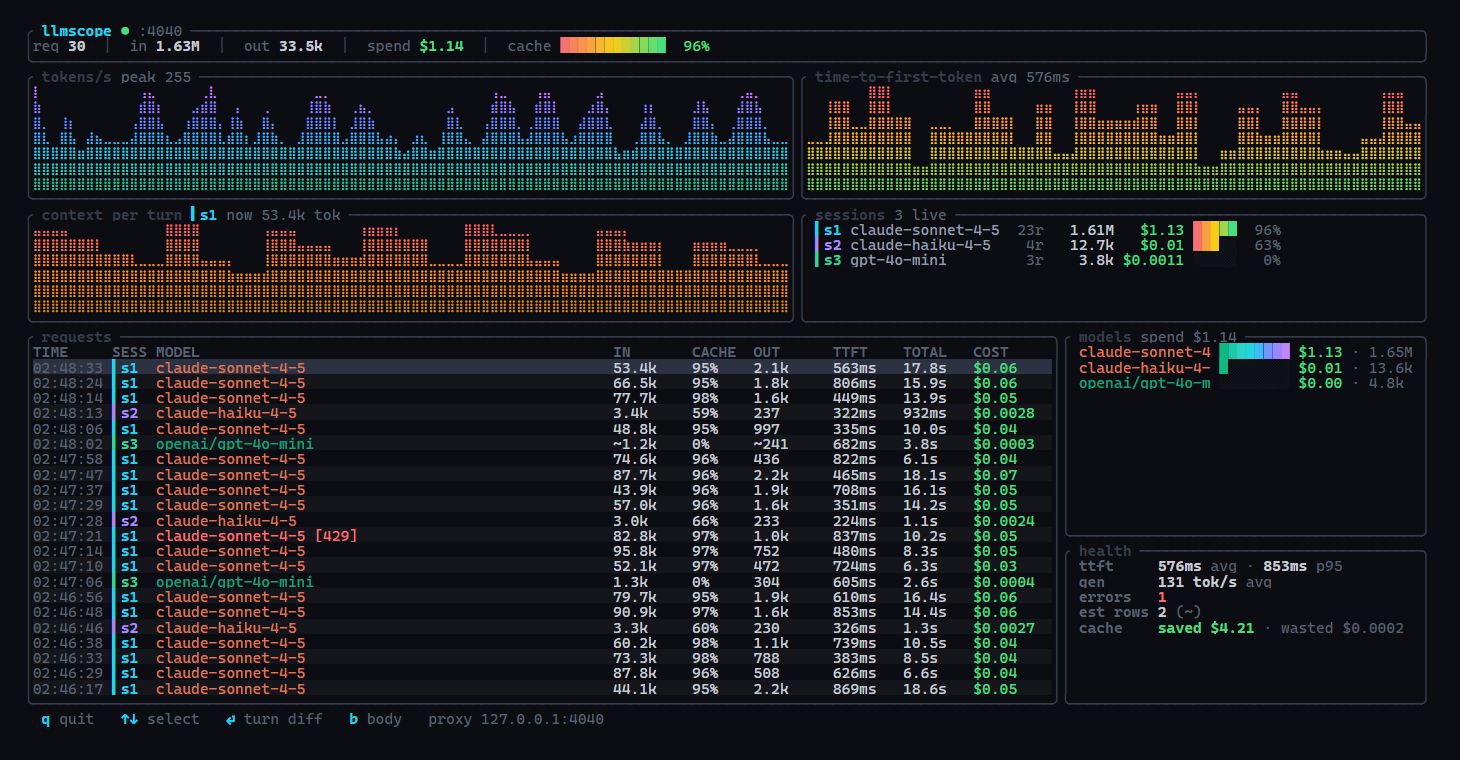
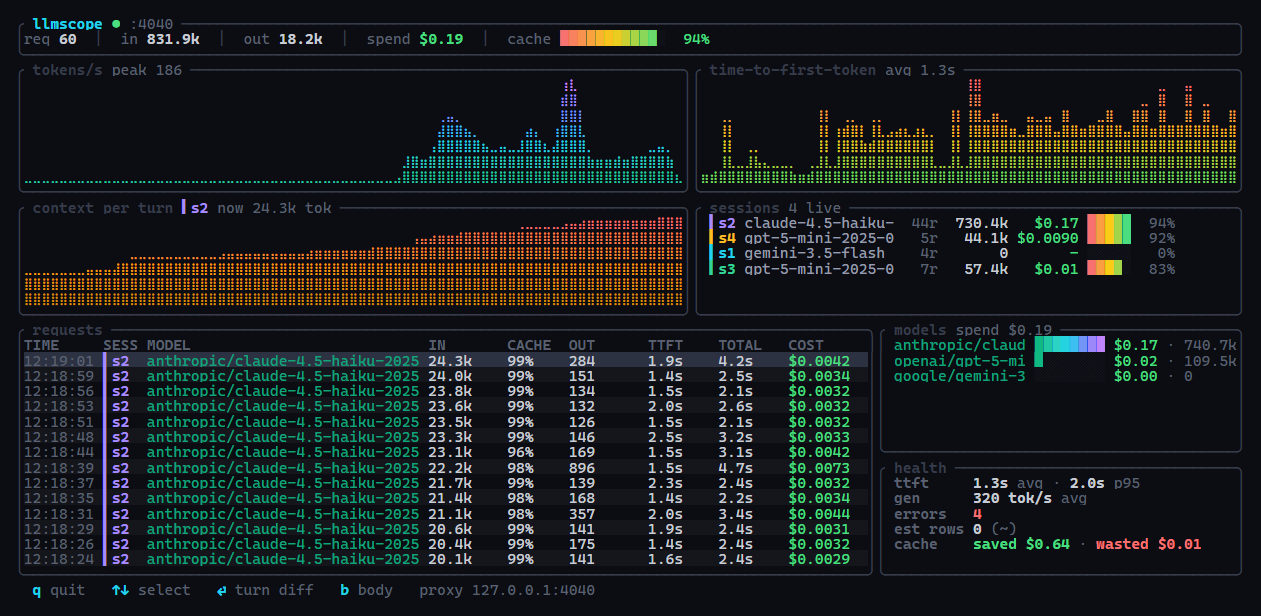
Render launch assets from real captures; add db replay to debug-render
debug-render can now read a real capture db (--db) with a clock anchor
(--now-ms) that hides requests that had not finished yet, so stepping
the anchor replays a captured session frame by frame. --view diff|body
with --id renders those screens for any captured request. The TUI clock
is injectable (App.now_ms) for exactly this; live `top` is unchanged.

New README assets, all from one real two-agent dogfood session
(opencode: Claude Haiku 4.5 + GPT-5 mini via OpenRouter, 60 requests,
94% cached):

- assets/demo.gif — the session replayed end to end
- assets/dashboard.png — final state, saved $0.64 / wasted $0.01
- assets/turn-diff.png — a genuine TTL-expiry miss caught live, with
  the why-line naming the idle gap

diff --git a/src/tui.rs b/src/tui.rs
@@ -174,6 +174,18 @@ struct App {
     selected: usize,
     table: TableState,
     view: View,
+    /// Wall-clock override for offline frame rendering (`debug-render`);
+    /// live `top` leaves this None and draws against the real clock.
+    now_ms: Option<i64>,
+}
+
+fn app_now_ms(app: &App) -> i64 {
+    app.now_ms.unwrap_or_else(|| {
+        SystemTime::now()
+            .duration_since(UNIX_EPOCH)
+            .map(|d| d.as_millis() as i64)
+            .unwrap_or(0)
+    })
 }
 
 pub async fn run(port: u16) -> Result<()> {
@@ -190,6 +202,7 @@ pub async fn run(port: u16) -> Result<()> {
         selected: 0,
         table: TableState::default(),
         view: View::Dashboard,
+        now_ms: None,
     };
 
     let mut terminal = ratatui::init();
@@ -773,10 +786,7 @@ fn draw_header(f: &mut Frame, app: &App, area: Rect) {
 fn draw_tokens_per_sec(f: &mut Frame, app: &App, area: Rect) {
     let inner_w = area.width.saturating_sub(2).max(1) as usize;
     let dot_cols = inner_w * 2;
-    let now_ms = SystemTime::now()
-        .duration_since(UNIX_EPOCH)
-        .map(|d| d.as_millis() as i64)
-        .unwrap_or(0);
+    let now_ms = app_now_ms(app);
     let window_start = now_ms - dot_cols as i64 * 1000;
 
     let mut buckets = vec![0f64; dot_cols];
@@ -1382,9 +1392,84 @@ pub fn render_demo_html(width: u16, height: u16, view: &str) -> Result<String> {
         selected: 0,
         table: TableState::default(),
         view: View::Dashboard,
+        now_ms: None,
     };
     if view == "diff" {
         app.view = View::Diff(build_diff_screen(&demo_diff_payload(now_ms)));
+    }
+
+    let backend = ratatui::backend::TestBackend::new(width, height);
+    let mut term = ratatui::Terminal::new(backend)?;
+    term.draw(|f| draw(f, &mut app))?;
+    Ok(buffer_to_html(term.backend().buffer()))
+}
+
+/// Render one frame of the TUI from a real capture db into styled HTML.
+/// `now_ms` anchors the clock and hides requests that hadn't finished yet,
+/// so stepping it through a captured session replays the dashboard frame by
+/// frame — this is how the README GIF is produced.
+pub fn render_db_html(
+    db: &std::path::Path,
+    width: u16,
+    height: u16,
+    view: &str,
+    now_ms: Option<i64>,
+    id: Option<i64>,
+) -> Result<String> {
+    use anyhow::Context;
+
+    let store = crate::store::Store::open(db)?;
+    let now_ms = now_ms.unwrap_or_else(|| {
+        SystemTime::now()
+            .duration_since(UNIX_EPOCH)
+            .map(|d| d.as_millis() as i64)
+            .unwrap_or(0)
+    });
+    let mut records = VecDeque::new();
+    for r in store.recent(0, 5000)? {
+        // Live `top` learns about a request when it completes; mirror that.
+        if r.ts_ms + r.duration_ms.max(0) <= now_ms {
+            records.push_front(r);
+        }
+    }
+    let last_id = records.front().map_or(0, |r| r.id);
+
+    let mut app = App {
+        port: 4040,
+        records,
+        last_id,
+        connected: true,
+        selected: 0,
+        table: TableState::default(),
+        view: View::Dashboard,
+        now_ms: Some(now_ms),
+    };
+    match view {
+        "dashboard" => {}
+        "diff" | "body" => {
+            let id = id.context("--id is required for --view diff|body with --db")?;
+            let (curr, curr_body, curr_response_body) = store
+                .with_body(id, None)?
+                .with_context(|| format!("no captured request with id {id}"))?;
+            let prev = store.with_body(0, Some(&curr))?;
+            let (prev, prev_body) = match prev {
+                Some((r, b, _)) => (Some(r), Some(b)),
+                None => (None, None),
+            };
+            let payload = DiffPayload {
+                curr,
+                curr_body,
+                curr_response_body,
+                prev,
+                prev_body,
+            };
+            app.view = View::Diff(if view == "body" {
+                build_body_screen(&payload)
+            } else {
+                build_diff_screen(&payload)
+            });
+        }
+        other => anyhow::bail!("unknown view `{other}` — expected dashboard | diff | body"),
     }
 
     let backend = ratatui::backend::TestBackend::new(width, height);

diff --git a/src/main.rs b/src/main.rs
@@ -79,18 +79,29 @@ enum Cmd {
         #[arg(long, default_value_t = 4040)]
         port: u16,
     },
-    /// Render a demo TUI frame to HTML (for screenshots)
+    /// Render a TUI frame to HTML (for screenshots and the README GIF)
     #[command(hide = true)]
     DebugRender {
         #[arg(long, default_value_t = 140)]
         width: u16,
         #[arg(long, default_value_t = 38)]
         height: u16,
-        /// Which screen to render: dashboard | diff
+        /// Which screen to render: dashboard | diff | body
         #[arg(long, default_value = "dashboard")]
         view: String,
         #[arg(long)]
         out: PathBuf,
+        /// Render from a real capture db instead of synthetic demo traffic
+        #[arg(long)]
+        db: Option<PathBuf>,
+        /// Clock anchor (unix ms) when rendering from --db: requests that
+        /// finished after this instant are hidden, so stepping it replays
+        /// the session frame by frame
+        #[arg(long)]
+        now_ms: Option<i64>,
+        /// Request id for --view diff|body with --db
+        #[arg(long)]
+        id: Option<i64>,
     },
 }
 
@@ -132,8 +143,15 @@ async fn main() -> Result<()> {
             height,
             view,
             out,
+            db,
+            now_ms,
+            id,
         } => {
-            std::fs::write(&out, tui::render_demo_html(width, height, &view)?)?;
+            let html = match db {
+                Some(db) => tui::render_db_html(&db, width, height, &view, now_ms, id)?,
+                None => tui::render_demo_html(width, height, &view)?,
+            };
+            std::fs::write(&out, html)?;
             eprintln!("wrote {}", out.display());
             Ok(())
         }

diff --git a/README.md b/README.md
@@ -4,7 +4,11 @@
 
 No SDK. No account. No config. One binary. **~0.1 ms of added latency.**
 
-![llmscope dashboard](assets/dashboard.png)
+![llmscope watching two coding agents work, replayed from a real capture](assets/demo.gif)
+
+*Real traffic, replayed: two coding agents (Claude Haiku 4.5 + GPT-5 mini via
+OpenRouter) fixing bugs in parallel — and a hidden title-generator failing
+with a 400 on every session, which nobody would see without a proxy.*
 
 ```
 llmscope run -- claude        # terminal 1: your agent, unchanged
@@ -46,9 +50,10 @@ the cache reads the API actually reported:
 
 ![turn diff](assets/turn-diff.png)
 
-`✗ no cache reads — full re-send billed` on a 100k-token turn is the most
-expensive line of output you'll ever be glad to see. And when a turn does
-miss, the `why` line names the culprit instead of leaving you to guess:
+That screenshot is a real miss, caught live: an agent session resumed after
+a 5-minute idle gap re-sent its entire 15k-token context at full price, and
+the `why` line names the culprit instead of leaving you to guess. It knows
+about the others too:
 
 - the exact character where the system prompt diverged (timestamps
   re-rendered into the prompt every turn are the classic cache-buster)
@@ -66,6 +71,8 @@ miss, the `why` line names the culprit instead of leaving you to guess:
 - **health** — avg/p95 TTFT, generation speed, errors, and cache economics:
   dollars *saved* by caching and dollars *wasted* on cold re-sends
 - `⏎` turn diff · `b` raw request/response bodies · `↑↓` select
+
+![llmscope dashboard](assets/dashboard.png)
 
 Panels fold away gracefully on small terminals.
 